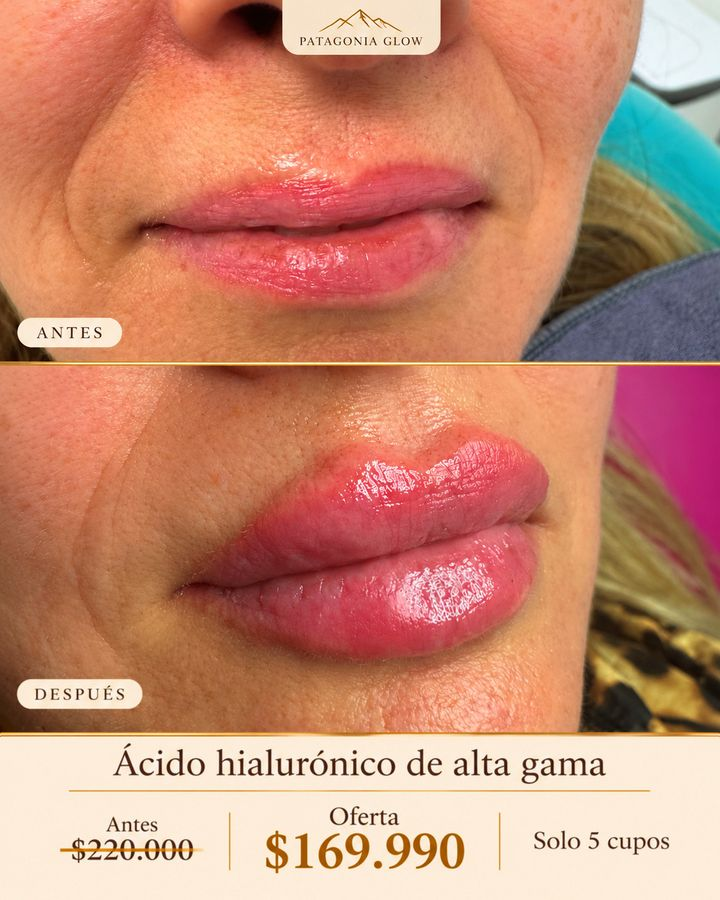
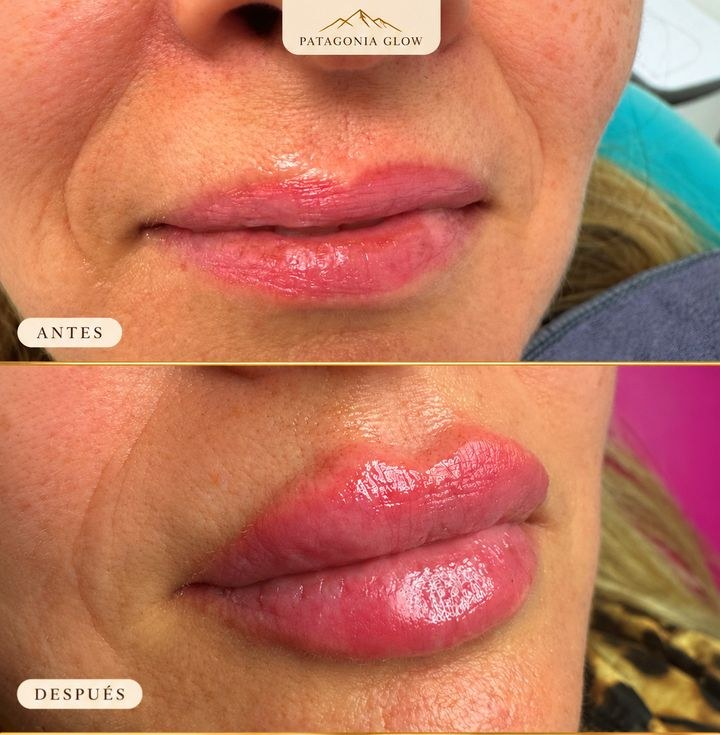
Patagonia Glow: galerias reales por tratamiento, fichas Rinomodelacion y Armonizacion facial, fotos sin precios
Claude-Session: https://claude.ai/code/session_01ErtMrzksTBmHfPn1cQ4qUJ

diff --git a/jodie-web/index.html b/jodie-web/index.html
@@ -660,6 +660,8 @@ button:focus-visible,a:focus-visible,input:focus-visible,textarea:focus-visible{
 .w-fotos{display:grid;grid-template-columns:repeat(auto-fill,minmax(180px,1fr));gap:12px}
 .w-fotos img{width:100%;border-radius:14px;cursor:zoom-in;box-shadow:0 4px 14px rgba(181,114,111,.18);transition:transform .2s}
 .w-fotos img:hover{transform:scale(1.02)}
+.w-galt{font-family:'Playfair Display',serif;font-weight:500;font-size:21px;color:var(--ink);margin:30px 0 12px;display:flex;align-items:baseline;gap:14px}
+.w-galt a{font-family:'Poppins',sans-serif;font-size:13px;color:var(--rose-deep);cursor:pointer}
 .w-band{margin:56px 0 8px;background:linear-gradient(120deg,#F6DBD9,#F3C9CD);border-radius:26px;padding:36px 40px;display:flex;align-items:center;justify-content:space-between;gap:24px}
 .w-band h3{font-family:'Playfair Display',serif;font-weight:500;color:var(--rose-deep);font-size:26px}
 .w-band p{color:#8E6A70;font-size:14.5px;margin-top:6px}
@@ -1112,7 +1114,8 @@ const TREATMENTS=[
   recup:'Sin tiempo de recuperación; puedes retomar tu día con normalidad.',
   previos:['Llega con la piel limpia, sin maquillaje si es posible.'],
   posteriores:['Hidrata y usa protector solar durante el día.'],
-  contra:['Lesiones, irritación o infección activa en la piel.','Alergia a alguno de los activos (se revisa en evaluación).']},
+  contra:['Lesiones, irritación o infección activa en la piel.','Alergia a alguno de los activos (se revisa en evaluación).'],
+  galeria:{t:'Pink Glow',dir:'pink-glow',n:3}},
  /* BB Glow — ficha rediseñada con el correo de Jodie del 29-ago.
     Usa la PLANTILLA DERMAPEN (DERMAPEN_PASOS + VIALES, más abajo).
     'quitar' desactiva pasos o partes de un paso para este tratamiento,
@@ -1144,7 +1147,8 @@ const TREATMENTS=[
    'Cambiar la funda de la almohada y utilizar una toalla limpia para el rostro.',
    'Seguir siempre las indicaciones específicas entregadas después de la sesión.'],
   contra:['Embarazo o lactancia.','Acné activo, heridas, herpes, irritación o infección en la piel.','Alergia a los activos.'],
-  alerta:'Comunícate con Patagonia Glow si presentas dolor intenso o creciente, inflamación progresiva, secreción, ampollas, cambios importantes en la coloración o enrojecimiento que empeora después de 48 horas. Si presentas dificultad para respirar o inflamación de labios, lengua o rostro, busca atención de urgencia.'},
+  alerta:'Comunícate con Patagonia Glow si presentas dolor intenso o creciente, inflamación progresiva, secreción, ampollas, cambios importantes en la coloración o enrojecimiento que empeora después de 48 horas. Si presentas dificultad para respirar o inflamación de labios, lengua o rostro, busca atención de urgencia.',
+  galeria:{t:'BB Glow',dir:'bb-glow',n:2}},
  {e:'🌿',n:'Limpieza Facial Profunda',cat:['hidratacion'],dur:'60 min',precio:'',eval:false,
   d:'Limpieza, extracción y descongestión de la piel. La base de cualquier rutina sana.',
   b:['Poros limpios','Piel fresca'],
@@ -1170,7 +1174,8 @@ const TREATMENTS=[
   recup:'Puede quedar un leve enrojecimiento; los resultados aparecen de forma gradual.',
   previos:['Llega sin maquillaje.','Evita exponerte al sol los días previos.'],
   posteriores:['Evita maquillaje y calor intenso por unas horas.','Usa protector solar.'],
-  contra:['Embarazo o lactancia.','Alergia al pescado/derivados (se revisa en evaluación).','Lesiones o infección en la piel.']},
+  contra:['Embarazo o lactancia.','Alergia al pescado/derivados (se revisa en evaluación).','Lesiones o infección en la piel.'],
+  galeria:{t:'ADN de salmón',dir:'adn-salmon',n:2}},
  {e:'💉',n:'ADN de salmón inyectable',cat:['rejuvenecimiento','lineas','hidratacion','firmeza'],dur:'45–60 minutos',precio:'',eval:true,
   d:'Microinyecciones de PDRN en puntos estratégicos para mejorar progresivamente la calidad de la piel.',
   b:['Bioestimulación','Calidad de piel'],
@@ -1196,7 +1201,8 @@ const TREATMENTS=[
   recup:'Puede quedar enrojecimiento temporal; los resultados son graduales.',
   previos:['Hidrátate bien el día previo.','Evita antiinflamatorios si no son indispensables.'],
   posteriores:['Evita maquillaje, calor intenso y ejercicio vigoroso por unas horas.','Usa protector solar.'],
-  contra:['Embarazo o lactancia.','Alteraciones de la coagulación o ciertos tratamientos médicos.','Infección o lesiones en la zona.']},
+  contra:['Embarazo o lactancia.','Alteraciones de la coagulación o ciertos tratamientos médicos.','Infección o lesiones en la zona.'],
+  galeria:{t:'PRP Facial',dir:'prp-facial',n:1}},
  {e:'📡',n:'Radiofrecuencia',cat:['rejuvenecimiento','firmeza'],dur:'45 min',precio:'',eval:false,
   d:'Trabaja firmeza, elasticidad y flacidez leve. Resultados graduales y variables.',
   b:['Firmeza','Reafirma'],
@@ -1223,7 +1229,37 @@ const TREATMENTS=[
   previos:['Evita alcohol y antiinflamatorios el día previo si no son indispensables.'],
   posteriores:['Evita calor intenso, ejercicio y masajear la zona por 24–48 h.','Sigue las indicaciones entregadas.'],
   contra:['Embarazo o lactancia.','Infección activa en la zona.','Alergias o alteraciones de coagulación.'],
-  galeria:{t:'Aumento y perfilado de labios',n:10}},
+  galeria:{t:'Aumento y perfilado de labios',n:11}},
+ /* Fichas nuevas (correos de Jodie del 10-nov, solo fotos). Textos de Kepler con lenguaje
+    seguro; Jodie debe revisar los campos clínicos. Duración rino: 12 a 18 meses (Cristian, 11-nov). */
+ {e:'💎',n:'Rinomodelación',cat:['armonizacion'],dur:'45 min',precio:'',eval:true,
+  d:'Ácido hialurónico de alta gama para armonizar el perfil de la nariz, sin cirugía.',
+  b:['Perfil más armónico','Sin cirugía'],
+  quees:'Procedimiento con ácido hialurónico de alta gama que ayuda a mejorar visualmente el perfil de la nariz, por ejemplo suavizando la apariencia del dorso o proyectando la punta, sin cirugía.',
+  sirve:'Ayuda a armonizar el perfil nasal de forma natural y temporal.',
+  mejora:['Apariencia de dorso irregular o giba leve','Punta nasal con poca proyección','Perfil poco armónico'],
+  paraquien:'Requiere evaluación profesional previa para definir si es adecuado para ti. No reemplaza una rinoplastia ni corrige problemas funcionales de la nariz.',
+  incluye:'Evaluación del perfil, aplicación del producto y recomendaciones de cuidado.',
+  sesiones:'La cantidad de sesiones se define en evaluación. Efecto temporal estimado de 12 a 18 meses; la duración puede variar según cada persona.',
+  recup:'Puede quedar leve inflamación, sensibilidad o pequeños hematomas temporales.',
+  previos:['Evita alcohol y antiinflamatorios el día previo si no son indispensables.'],
+  posteriores:['No presiones ni masajees la zona por 24–48 h.','Evita calor intenso y ejercicio por 24–48 h.','Sigue las indicaciones entregadas.'],
+  contra:['Embarazo o lactancia.','Infección activa en la zona.','Cirugías o rellenos previos en la nariz (se revisa en evaluación).','Alergias o alteraciones de coagulación.'],
+  galeria:{t:'Rinomodelación',dir:'rinomodelacion',n:9}},
+ {e:'💠',n:'Armonización facial: mentón y mandíbula',cat:['armonizacion'],dur:'45 min',precio:'',eval:true,
+  d:'Ácido hialurónico para proyectar el mentón y perfilar la mandíbula, con resultados naturales.',
+  b:['Proyección de mentón','Contorno definido'],
+  quees:'Procedimiento con ácido hialurónico de alta gama que ayuda a proyectar el mentón y definir el contorno mandibular, buscando un perfil más equilibrado y natural.',
+  sirve:'Ayuda a equilibrar las proporciones del rostro y a definir visualmente el contorno.',
+  mejora:['Mentón con poca proyección','Contorno mandibular poco definido','Perfil poco equilibrado'],
+  paraquien:'Requiere evaluación profesional previa para definir si es adecuado para ti.',
+  incluye:'Evaluación de las proporciones del rostro, aplicación del producto y recomendaciones de cuidado.',
+  sesiones:'Puede realizarse en una o más sesiones; el plan se define en evaluación. Efecto temporal.',
+  recup:'Puede quedar leve inflamación, sensibilidad o pequeños hematomas temporales.',
+  previos:['Evita alcohol y antiinflamatorios el día previo si no son indispensables.'],
+  posteriores:['No presiones ni masajees la zona por 24–48 h.','Evita calor intenso y ejercicio por 24–48 h.','Sigue las indicaciones entregadas.'],
+  contra:['Embarazo o lactancia.','Infección activa en la zona.','Alergias o alteraciones de coagulación.'],
+  galeria:{t:'Mentón y perfilado mandibular',dir:'armonizacion',n:5}},
  {e:'✨',n:'Toxina Botulínica',cat:['lineas','rejuvenecimiento'],dur:'30 min',precio:'',eval:true,
   d:'Ayuda a suavizar las líneas de expresión de forma natural.',
   b:['Líneas suaves'],
@@ -1262,7 +1298,8 @@ const TREATMENTS=[
   recup:'Puede quedar sensibilidad temporal en el cuero cabelludo.',
   previos:['Llega con el cabello limpio y seco.','Evita antiinflamatorios si no son indispensables.'],
   posteriores:['Evita lavarte el cabello por unas horas y el sol directo.'],
-  contra:['Embarazo o lactancia.','Alteraciones de coagulación.','Infección en el cuero cabelludo.']},
+  contra:['Embarazo o lactancia.','Alteraciones de coagulación.','Infección en el cuero cabelludo.'],
+  galeria:{t:'PRP capilar',dir:'prp-capilar',n:2}},
  {e:'💊',n:'Sueroterapia',cat:['hidratacion'],dur:'40 min',precio:'',eval:true,
   d:'Aporte de vitaminas y activos para apoyar tu bienestar y energía.',
   b:['Bienestar','Energía'],
@@ -1415,6 +1452,7 @@ function openDermapen(i){
    +(t.eval ? '<div class="fbadge">🩺 Requiere evaluación previa</div>' : '')
    /* --- vista principal --- */
    +'<div class="dp-res"><p>'+t.resumen+'</p><div class="benefs">'+t.b.map(function(x){ return '<span>'+x+'</span>'; }).join('')+'</div></div>'
+   +fgaleria(t)
    +'<div class="dp-h">Tu sesión en '+pasos.length+' pasos</div><div class="dp-pasos">'
    +pasos.map(function(p,k){ return '<div class="dp-paso"><div class="dp-num">'+(k+1)+'</div><div><b>'+p.t+'</b><span>'+p.corto+'</span></div></div>'; }).join('')+'</div>'
    +'<div class="dp-h">Viales según tu piel</div><div class="dp-viales">'+VIALES.map(function(v){ return '<span>'+v.para+'</span>'; }).join('')+'</div>'
@@ -1473,8 +1511,10 @@ function openDetail(i){ if(TREATMENTS[i] && TREATMENTS[i].plantilla==='dermapen'
   document.getElementById('sheet').classList.add('on'); document.getElementById('sheetBg').classList.add('on');
   var sh=document.getElementById('sheet'); if(sh) sh.scrollTop=0;
 }
-/* Fotos reales antes/después enviadas por Jodie (30-oct): img/labios/labios-01..10.jpg */
-function galFotos(g){ var h=''; for(var k=1;k<=g.n;k++){ var u='img/labios/labios-'+(k<10?'0':'')+k+'.jpg'; h+='<img src="'+u+'" loading="lazy" alt="'+g.t+', antes y después" onclick="verFoto(this.src)">'; } return h; }
+/* Fotos reales antes/después enviadas por Jodie (30-oct labios; 10-nov el resto):
+   img/<dir>/<dir>-01..n.jpg · galeria:{t:'título', dir:'carpeta', n:cantidad} (dir por defecto 'labios').
+   Sin precios ni promociones en las fotos (Cristian, 11-nov: se recortan). */
+function galFotos(g){ var h='', d=g.dir||'labios'; for(var k=1;k<=g.n;k++){ var u='img/'+d+'/'+d+'-'+(k<10?'0':'')+k+'.jpg'; h+='<img src="'+u+'" loading="lazy" alt="'+g.t+', antes y después" onclick="verFoto(this.src)">'; } return h; }
 function fgaleria(t){ if(!t.galeria) return ''; return '<div class="dp-h">Resultados reales · '+t.galeria.t+'</div><div class="galeria">'+galFotos(t.galeria)+'</div><div class="rdisc" style="margin-top:4px">Pacientes reales de Patagonia Glow, publicadas con su autorización. Toca una foto para verla grande.</div>'; }
 function verFoto(u){ var v=document.getElementById('fotoGrande'); if(!v){ v=document.createElement('div'); v.id='fotoGrande'; v.onclick=function(){ v.classList.remove('on'); }; document.body.appendChild(v); } v.innerHTML='<img src="'+u+'" alt=""><span>✕</span>'; v.classList.add('on'); }
 window.verFoto=verFoto;
@@ -1833,7 +1873,8 @@ window.addEventListener('popstate',aplicarRuta);
       return '<div class="w-card"><div class="e">'+t.e+'</div><h3>'+t.n+'</h3><small>⏱ '+t.dur+(t.eval?' · requiere evaluación':'')+'</small>'
        +'<p>'+(t.d||t.resumen||'')+'</p><div class="acts"><button class="w-btn alt" onclick="openDetail('+i+')">Ver ficha</button><button class="w-btn" onclick="agendarDe('+i+')">Agendar</button></div></div>';
     }).join('')+'</div></section>'
-   +gal.map(function(t){ return '<section class="w-sec"><h2>Resultados reales</h2><div class="w-lead">'+t.galeria.t+' con '+t.n.toLowerCase()+'. Pacientes reales de Patagonia Glow, publicadas con su autorización. Los resultados pueden variar entre personas.</div><div class="w-fotos">'+galFotos(t.galeria)+'</div></section>'; }).join('')
+   +(gal.length?'<section class="w-sec"><h2>Resultados reales</h2><div class="w-lead">Pacientes reales de Patagonia Glow, publicadas con su autorización. Los resultados pueden variar entre personas.</div>'
+     +gal.map(function(t){ var i=TREATMENTS.indexOf(t); return '<h3 class="w-galt">'+t.galeria.t+' <a onclick="openDetail('+i+')">Ver ficha ›</a></h3><div class="w-fotos">'+galFotos(t.galeria)+'</div>'; }).join('')+'</section>':'')
    +'<div class="w-band"><div><h3>¿No sabes qué tratamiento elegir?</h3><p>Responde unas preguntas y te orientamos. Siempre se confirma en tu evaluación.</p></div><button class="w-btn" onclick="openTest()">Hacer el test</button></div>';
   w.after(home);
   var f=document.createElement('footer'); f.className='w-foot';

diff --git a/jodie/index.html b/jodie/index.html
@@ -1019,7 +1019,8 @@ const TREATMENTS=[
   recup:'Sin tiempo de recuperación; puedes retomar tu día con normalidad.',
   previos:['Llega con la piel limpia, sin maquillaje si es posible.'],
   posteriores:['Hidrata y usa protector solar durante el día.'],
-  contra:['Lesiones, irritación o infección activa en la piel.','Alergia a alguno de los activos (se revisa en evaluación).']},
+  contra:['Lesiones, irritación o infección activa en la piel.','Alergia a alguno de los activos (se revisa en evaluación).'],
+  galeria:{t:'Pink Glow',dir:'pink-glow',n:3}},
  /* BB Glow — ficha rediseñada con el correo de Jodie del 29-ago.
     Usa la PLANTILLA DERMAPEN (DERMAPEN_PASOS + VIALES, más abajo).
     'quitar' desactiva pasos o partes de un paso para este tratamiento,
@@ -1051,7 +1052,8 @@ const TREATMENTS=[
    'Cambiar la funda de la almohada y utilizar una toalla limpia para el rostro.',
    'Seguir siempre las indicaciones específicas entregadas después de la sesión.'],
   contra:['Embarazo o lactancia.','Acné activo, heridas, herpes, irritación o infección en la piel.','Alergia a los activos.'],
-  alerta:'Comunícate con Patagonia Glow si presentas dolor intenso o creciente, inflamación progresiva, secreción, ampollas, cambios importantes en la coloración o enrojecimiento que empeora después de 48 horas. Si presentas dificultad para respirar o inflamación de labios, lengua o rostro, busca atención de urgencia.'},
+  alerta:'Comunícate con Patagonia Glow si presentas dolor intenso o creciente, inflamación progresiva, secreción, ampollas, cambios importantes en la coloración o enrojecimiento que empeora después de 48 horas. Si presentas dificultad para respirar o inflamación de labios, lengua o rostro, busca atención de urgencia.',
+  galeria:{t:'BB Glow',dir:'bb-glow',n:2}},
  {e:'🌿',n:'Limpieza Facial Profunda',cat:['hidratacion'],dur:'60 min',precio:'',eval:false,
   d:'Limpieza, extracción y descongestión de la piel. La base de cualquier rutina sana.',
   b:['Poros limpios','Piel fresca'],
@@ -1077,7 +1079,8 @@ const TREATMENTS=[
   recup:'Puede quedar un leve enrojecimiento; los resultados aparecen de forma gradual.',
   previos:['Llega sin maquillaje.','Evita exponerte al sol los días previos.'],
   posteriores:['Evita maquillaje y calor intenso por unas horas.','Usa protector solar.'],
-  contra:['Embarazo o lactancia.','Alergia al pescado/derivados (se revisa en evaluación).','Lesiones o infección en la piel.']},
+  contra:['Embarazo o lactancia.','Alergia al pescado/derivados (se revisa en evaluación).','Lesiones o infección en la piel.'],
+  galeria:{t:'ADN de salmón',dir:'adn-salmon',n:2}},
  {e:'💉',n:'ADN de salmón inyectable',cat:['rejuvenecimiento','lineas','hidratacion','firmeza'],dur:'45–60 minutos',precio:'',eval:true,
   d:'Microinyecciones de PDRN en puntos estratégicos para mejorar progresivamente la calidad de la piel.',
   b:['Bioestimulación','Calidad de piel'],
@@ -1103,7 +1106,8 @@ const TREATMENTS=[
   recup:'Puede quedar enrojecimiento temporal; los resultados son graduales.',
   previos:['Hidrátate bien el día previo.','Evita antiinflamatorios si no son indispensables.'],
   posteriores:['Evita maquillaje, calor intenso y ejercicio vigoroso por unas horas.','Usa protector solar.'],
-  contra:['Embarazo o lactancia.','Alteraciones de la coagulación o ciertos tratamientos médicos.','Infección o lesiones en la zona.']},
+  contra:['Embarazo o lactancia.','Alteraciones de la coagulación o ciertos tratamientos médicos.','Infección o lesiones en la zona.'],
+  galeria:{t:'PRP Facial',dir:'prp-facial',n:1}},
  {e:'📡',n:'Radiofrecuencia',cat:['rejuvenecimiento','firmeza'],dur:'45 min',precio:'',eval:false,
   d:'Trabaja firmeza, elasticidad y flacidez leve. Resultados graduales y variables.',
   b:['Firmeza','Reafirma'],
@@ -1130,7 +1134,37 @@ const TREATMENTS=[
   previos:['Evita alcohol y antiinflamatorios el día previo si no son indispensables.'],
   posteriores:['Evita calor intenso, ejercicio y masajear la zona por 24–48 h.','Sigue las indicaciones entregadas.'],
   contra:['Embarazo o lactancia.','Infección activa en la zona.','Alergias o alteraciones de coagulación.'],
-  galeria:{t:'Aumento y perfilado de labios',n:10}},
+  galeria:{t:'Aumento y perfilado de labios',n:11}},
+ /* Fichas nuevas (correos de Jodie del 10-nov, solo fotos). Textos de Kepler con lenguaje
+    seguro; Jodie debe revisar los campos clínicos. Duración rino: 12 a 18 meses (Cristian, 11-nov). */
+ {e:'💎',n:'Rinomodelación',cat:['armonizacion'],dur:'45 min',precio:'',eval:true,
+  d:'Ácido hialurónico de alta gama para armonizar el perfil de la nariz, sin cirugía.',
+  b:['Perfil más armónico','Sin cirugía'],
+  quees:'Procedimiento con ácido hialurónico de alta gama que ayuda a mejorar visualmente el perfil de la nariz, por ejemplo suavizando la apariencia del dorso o proyectando la punta, sin cirugía.',
+  sirve:'Ayuda a armonizar el perfil nasal de forma natural y temporal.',
+  mejora:['Apariencia de dorso irregular o giba leve','Punta nasal con poca proyección','Perfil poco armónico'],
+  paraquien:'Requiere evaluación profesional previa para definir si es adecuado para ti. No reemplaza una rinoplastia ni corrige problemas funcionales de la nariz.',
+  incluye:'Evaluación del perfil, aplicación del producto y recomendaciones de cuidado.',
+  sesiones:'La cantidad de sesiones se define en evaluación. Efecto temporal estimado de 12 a 18 meses; la duración puede variar según cada persona.',
+  recup:'Puede quedar leve inflamación, sensibilidad o pequeños hematomas temporales.',
+  previos:['Evita alcohol y antiinflamatorios el día previo si no son indispensables.'],
+  posteriores:['No presiones ni masajees la zona por 24–48 h.','Evita calor intenso y ejercicio por 24–48 h.','Sigue las indicaciones entregadas.'],
+  contra:['Embarazo o lactancia.','Infección activa en la zona.','Cirugías o rellenos previos en la nariz (se revisa en evaluación).','Alergias o alteraciones de coagulación.'],
+  galeria:{t:'Rinomodelación',dir:'rinomodelacion',n:9}},
+ {e:'💠',n:'Armonización facial: mentón y mandíbula',cat:['armonizacion'],dur:'45 min',precio:'',eval:true,
+  d:'Ácido hialurónico para proyectar el mentón y perfilar la mandíbula, con resultados naturales.',
+  b:['Proyección de mentón','Contorno definido'],
+  quees:'Procedimiento con ácido hialurónico de alta gama que ayuda a proyectar el mentón y definir el contorno mandibular, buscando un perfil más equilibrado y natural.',
+  sirve:'Ayuda a equilibrar las proporciones del rostro y a definir visualmente el contorno.',
+  mejora:['Mentón con poca proyección','Contorno mandibular poco definido','Perfil poco equilibrado'],
+  paraquien:'Requiere evaluación profesional previa para definir si es adecuado para ti.',
+  incluye:'Evaluación de las proporciones del rostro, aplicación del producto y recomendaciones de cuidado.',
+  sesiones:'Puede realizarse en una o más sesiones; el plan se define en evaluación. Efecto temporal.',
+  recup:'Puede quedar leve inflamación, sensibilidad o pequeños hematomas temporales.',
+  previos:['Evita alcohol y antiinflamatorios el día previo si no son indispensables.'],
+  posteriores:['No presiones ni masajees la zona por 24–48 h.','Evita calor intenso y ejercicio por 24–48 h.','Sigue las indicaciones entregadas.'],
+  contra:['Embarazo o lactancia.','Infección activa en la zona.','Alergias o alteraciones de coagulación.'],
+  galeria:{t:'Mentón y perfilado mandibular',dir:'armonizacion',n:5}},
  {e:'✨',n:'Toxina Botulínica',cat:['lineas','rejuvenecimiento'],dur:'30 min',precio:'',eval:true,
   d:'Ayuda a suavizar las líneas de expresión de forma natural.',
   b:['Líneas suaves'],
@@ -1169,7 +1203,8 @@ const TREATMENTS=[
   recup:'Puede quedar sensibilidad temporal en el cuero cabelludo.',
   previos:['Llega con el cabello limpio y seco.','Evita antiinflamatorios si no son indispensables.'],
   posteriores:['Evita lavarte el cabello por unas horas y el sol directo.'],
-  contra:['Embarazo o lactancia.','Alteraciones de coagulación.','Infección en el cuero cabelludo.']},
+  contra:['Embarazo o lactancia.','Alteraciones de coagulación.','Infección en el cuero cabelludo.'],
+  galeria:{t:'PRP capilar',dir:'prp-capilar',n:2}},
  {e:'💊',n:'Sueroterapia',cat:['hidratacion'],dur:'40 min',precio:'',eval:true,
   d:'Aporte de vitaminas y activos para apoyar tu bienestar y energía.',
   b:['Bienestar','Energía'],
@@ -1322,6 +1357,7 @@ function openDermapen(i){
    +(t.eval ? '<div class="fbadge">🩺 Requiere evaluación previa</div>' : '')
    /* --- vista principal --- */
    +'<div class="dp-res"><p>'+t.resumen+'</p><div class="benefs">'+t.b.map(function(x){ return '<span>'+x+'</span>'; }).join('')+'</div></div>'
+   +fgaleria(t)
    +'<div class="dp-h">Tu sesión en '+pasos.length+' pasos</div><div class="dp-pasos">'
    +pasos.map(function(p,k){ return '<div class="dp-paso"><div class="dp-num">'+(k+1)+'</div><div><b>'+p.t+'</b><span>'+p.corto+'</span></div></div>'; }).join('')+'</div>'
    +'<div class="dp-h">Viales según tu piel</div><div class="dp-viales">'+VIALES.map(function(v){ return '<span>'+v.para+'</span>'; }).join('')+'</div>'
@@ -1380,8 +1416,10 @@ function openDetail(i){ if(TREATMENTS[i] && TREATMENTS[i].plantilla==='dermapen'
   document.getElementById('sheet').classList.add('on'); document.getElementById('sheetBg').classList.add('on');
   var sh=document.getElementById('sheet'); if(sh) sh.scrollTop=0;
 }
-/* Fotos reales antes/después enviadas por Jodie (30-oct): img/labios/labios-01..10.jpg */
-function galFotos(g){ var h=''; for(var k=1;k<=g.n;k++){ var u='img/labios/labios-'+(k<10?'0':'')+k+'.jpg'; h+='<img src="'+u+'" loading="lazy" alt="'+g.t+', antes y después" onclick="verFoto(this.src)">'; } return h; }
+/* Fotos reales antes/después enviadas por Jodie (30-oct labios; 10-nov el resto):
+   img/<dir>/<dir>-01..n.jpg · galeria:{t:'título', dir:'carpeta', n:cantidad} (dir por defecto 'labios').
+   Sin precios ni promociones en las fotos (Cristian, 11-nov: se recortan). */
+function galFotos(g){ var h='', d=g.dir||'labios'; for(var k=1;k<=g.n;k++){ var u='img/'+d+'/'+d+'-'+(k<10?'0':'')+k+'.jpg'; h+='<img src="'+u+'" loading="lazy" alt="'+g.t+', antes y después" onclick="verFoto(this.src)">'; } return h; }
 function fgaleria(t){ if(!t.galeria) return ''; return '<div class="dp-h">Resultados reales · '+t.galeria.t+'</div><div class="galeria">'+galFotos(t.galeria)+'</div><div class="rdisc" style="margin-top:4px">Pacientes reales de Patagonia Glow, publicadas con su autorización. Toca una foto para verla grande.</div>'; }
 function verFoto(u){ var v=document.getElementById('fotoGrande'); if(!v){ v=document.createElement('div'); v.id='fotoGrande'; v.onclick=function(){ v.classList.remove('on'); }; document.body.appendChild(v); } v.innerHTML='<img src="'+u+'" alt=""><span>✕</span>'; v.classList.add('on'); }
 window.verFoto=verFoto;

diff --git a/jodie-web/_build_web.py b/jodie-web/_build_web.py
@@ -95,6 +95,8 @@ CSS = r"""
 .w-fotos{display:grid;grid-template-columns:repeat(auto-fill,minmax(180px,1fr));gap:12px}
 .w-fotos img{width:100%;border-radius:14px;cursor:zoom-in;box-shadow:0 4px 14px rgba(181,114,111,.18);transition:transform .2s}
 .w-fotos img:hover{transform:scale(1.02)}
+.w-galt{font-family:'Playfair Display',serif;font-weight:500;font-size:21px;color:var(--ink);margin:30px 0 12px;display:flex;align-items:baseline;gap:14px}
+.w-galt a{font-family:'Poppins',sans-serif;font-size:13px;color:var(--rose-deep);cursor:pointer}
 .w-band{margin:56px 0 8px;background:linear-gradient(120deg,#F6DBD9,#F3C9CD);border-radius:26px;padding:36px 40px;display:flex;align-items:center;justify-content:space-between;gap:24px}
 .w-band h3{font-family:'Playfair Display',serif;font-weight:500;color:var(--rose-deep);font-size:26px}
 .w-band p{color:#8E6A70;font-size:14.5px;margin-top:6px}
@@ -153,7 +155,8 @@ window.addEventListener('popstate',aplicarRuta);
       return '<div class="w-card"><div class="e">'+t.e+'</div><h3>'+t.n+'</h3><small>⏱ '+t.dur+(t.eval?' · requiere evaluación':'')+'</small>'
        +'<p>'+(t.d||t.resumen||'')+'</p><div class="acts"><button class="w-btn alt" onclick="openDetail('+i+')">Ver ficha</button><button class="w-btn" onclick="agendarDe('+i+')">Agendar</button></div></div>';
     }).join('')+'</div></section>'
-   +gal.map(function(t){ return '<section class="w-sec"><h2>Resultados reales</h2><div class="w-lead">'+t.galeria.t+' con '+t.n.toLowerCase()+'. Pacientes reales de Patagonia Glow, publicadas con su autorización. Los resultados pueden variar entre personas.</div><div class="w-fotos">'+galFotos(t.galeria)+'</div></section>'; }).join('')
+   +(gal.length?'<section class="w-sec"><h2>Resultados reales</h2><div class="w-lead">Pacientes reales de Patagonia Glow, publicadas con su autorización. Los resultados pueden variar entre personas.</div>'
+     +gal.map(function(t){ var i=TREATMENTS.indexOf(t); return '<h3 class="w-galt">'+t.galeria.t+' <a onclick="openDetail('+i+')">Ver ficha ›</a></h3><div class="w-fotos">'+galFotos(t.galeria)+'</div>'; }).join('')+'</section>':'')
    +'<div class="w-band"><div><h3>¿No sabes qué tratamiento elegir?</h3><p>Responde unas preguntas y te orientamos. Siempre se confirma en tu evaluación.</p></div><button class="w-btn" onclick="openTest()">Hacer el test</button></div>';
   w.after(home);
   var f=document.createElement('footer'); f.className='w-foot';
